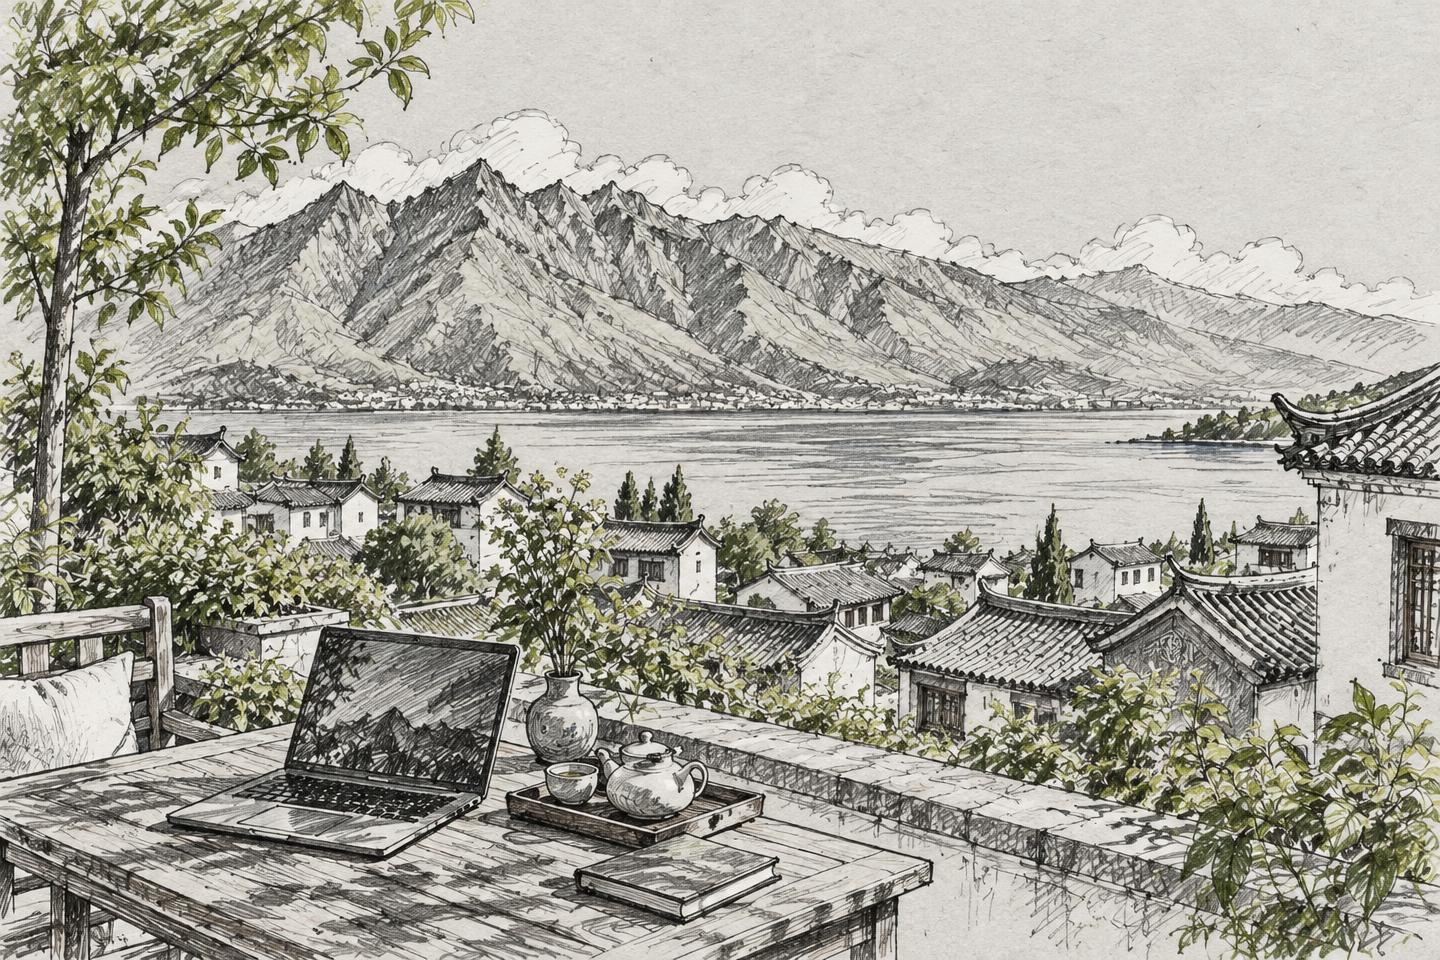
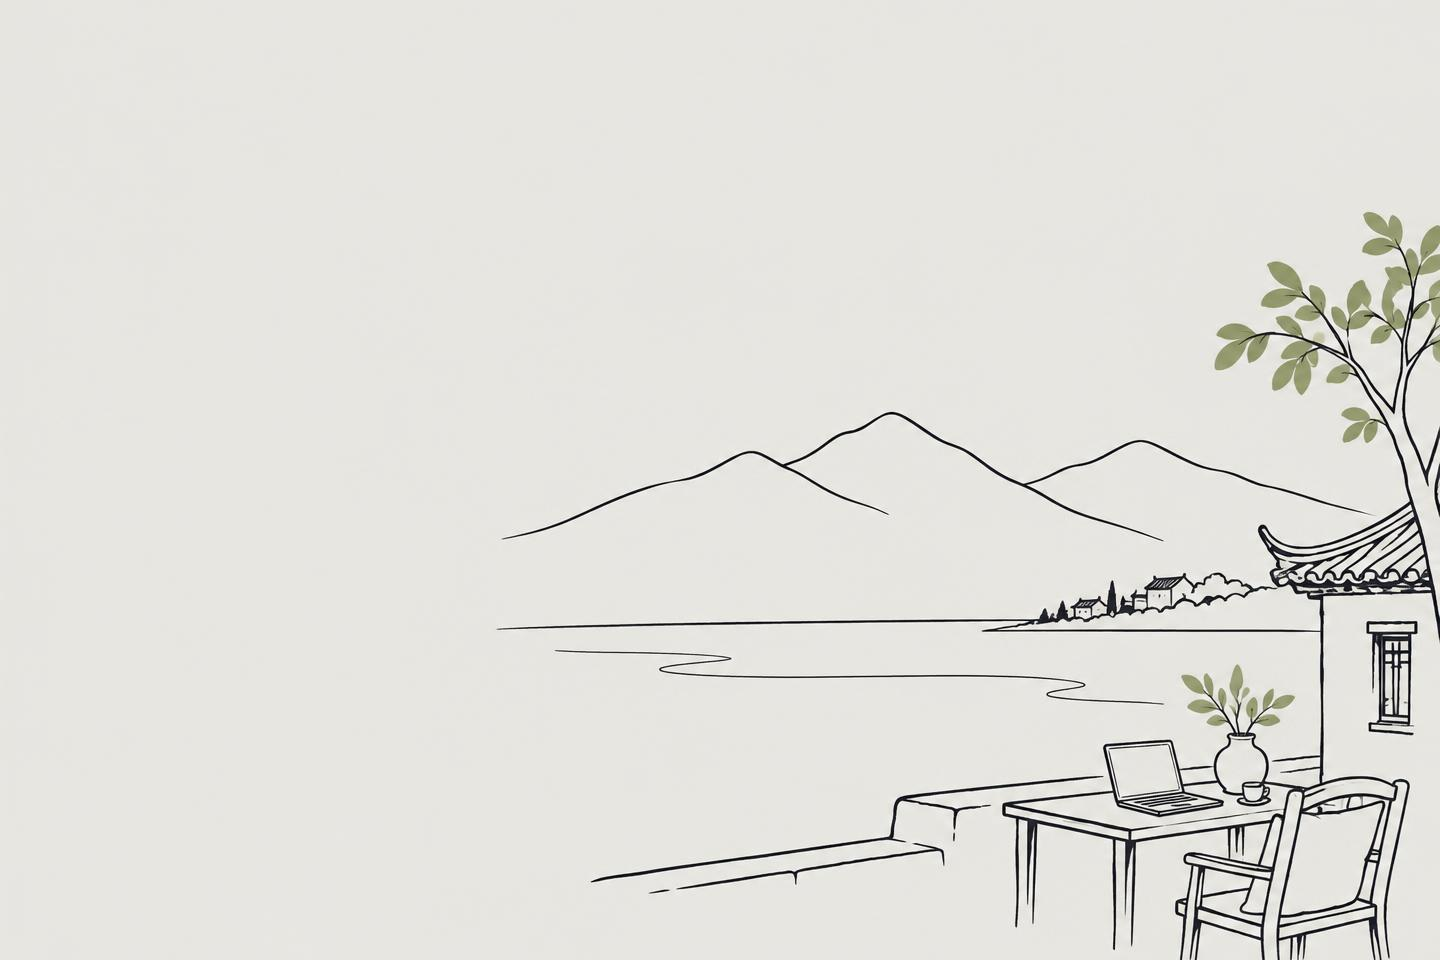
Simplify S27 artwork into clean minimal line illustrations

diff --git a/src/components/light/S27Programs.tsx b/src/components/light/S27Programs.tsx
@@ -9,8 +9,8 @@ import daliImage from "@/assets/s27-dali-residency.jpg";
 type ProgramKey = keyof typeof S27_PROGRAMS;
 const images = { hackerHouse: hackerHouseImage, dali: daliImage };
 const imageAlts = {
-  hackerHouse: "Hand-drawn sketch of a shared house workspace for founders",
-  dali: "Hand-drawn sketch of a lakeside workspace in Dali with mountain views",
+  hackerHouse: "Minimal line illustration of founders collaborating in a shared house",
+  dali: "Minimal line illustration of a lakeside workspace and mountains in Dali",
 };
 
 export function S27Countdown({ programKey }: { programKey: ProgramKey }) {
